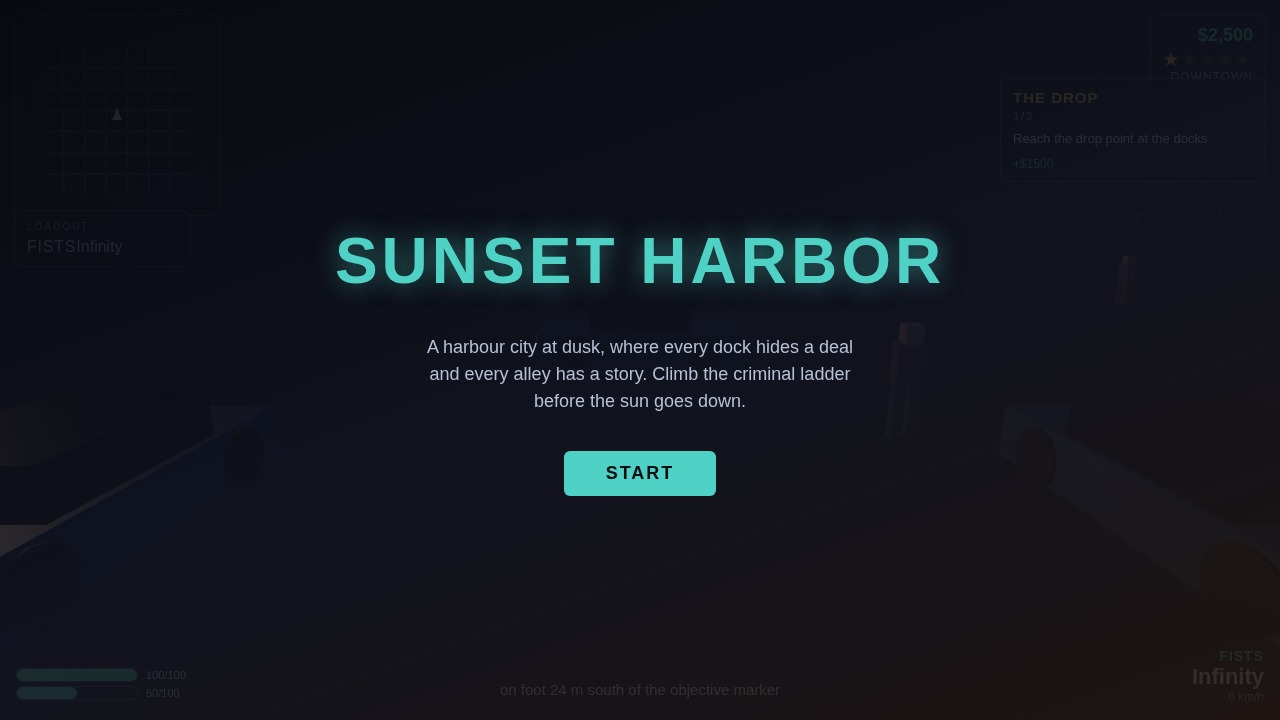
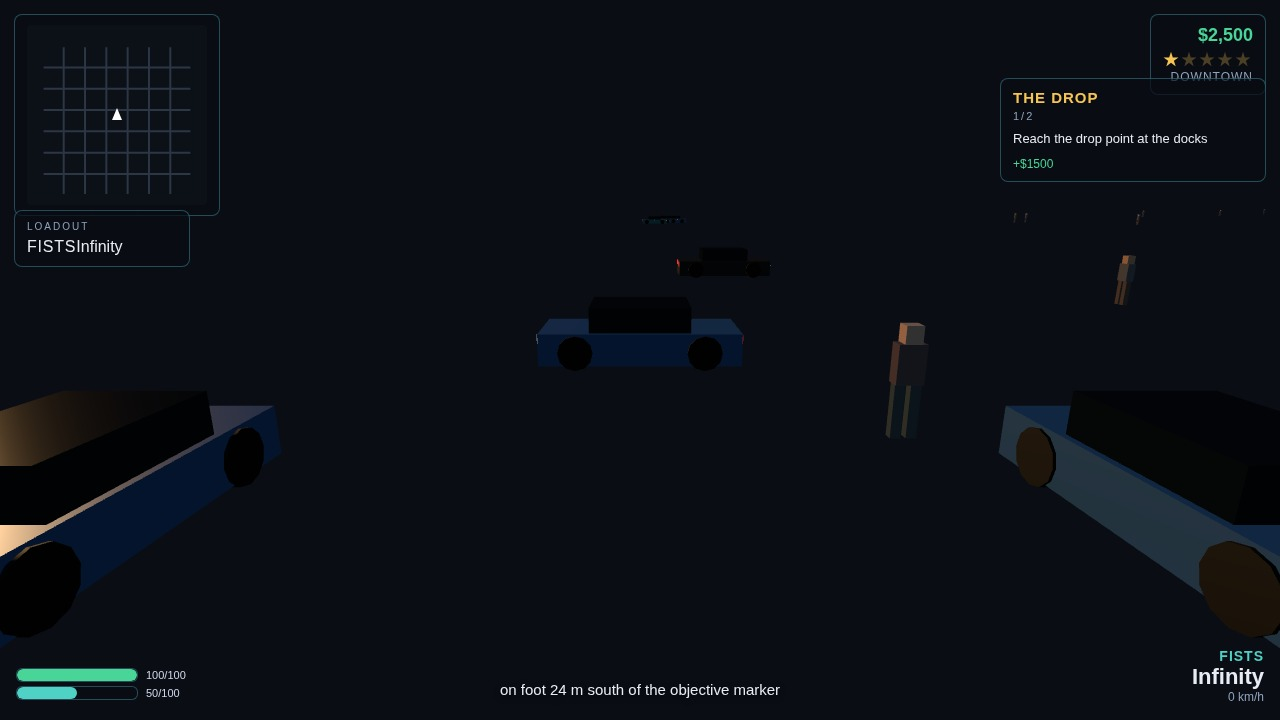
Brighten the dusk lighting so the city reads

diff --git a/game/src/main.js b/game/src/main.js
@@ -43,8 +43,8 @@ export class Game {
     this.renderer.setSize(window.innerWidth, window.innerHeight);
 
     this.scene = new THREE.Scene();
-    this.scene.background = new THREE.Color(0x0a0d14);
-    this.scene.fog = new THREE.Fog(0x0a0d14, 90, 520);
+    this.scene.background = new THREE.Color(0x141a26);
+    this.scene.fog = new THREE.Fog(0x141a26, 140, 700);
 
     this.camera = new THREE.PerspectiveCamera(
       60,
@@ -54,10 +54,11 @@ export class Game {
     );
     this.camera.position.set(0, 4, 12);
 
-    const hemi = new THREE.HemisphereLight(0x8fb3d9, 0x2c3138, 0.75);
-    const sun = new THREE.DirectionalLight(0xffc37d, 1.4);
+    const hemi = new THREE.HemisphereLight(0x8fb3d9, 0x2c3138, 1.35);
+    const sun = new THREE.DirectionalLight(0xffc37d, 2.2);
     sun.position.set(-90, 28, -70);
-    const ambient = new THREE.AmbientLight(0x404a5c, 0.4);
+    sun.castShadow = false;
+    const ambient = new THREE.AmbientLight(0x404a5c, 0.85);
     this.scene.add(hemi, sun, ambient);
 
     this.city = createCity(this.scene, {});
